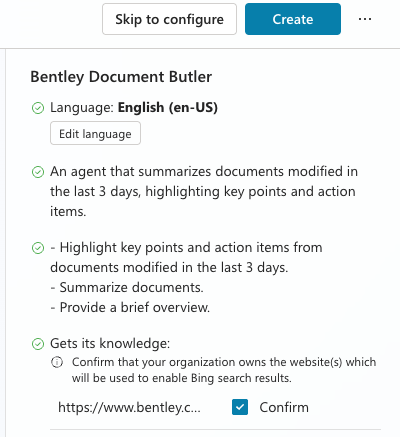
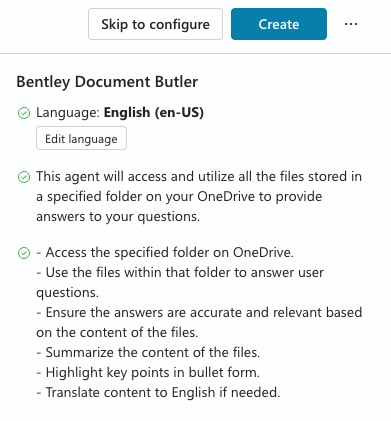
Updated answerkey and images
Updated answerkey and replaced images with better ones.

diff --git a/answerkey.md b/answerkey.md
@@ -13,13 +13,9 @@ Define/refine the task this agent needs to undertake
 
 ![Refine Copilot Agent's role](images/DefineTask.png)
 
-Optional - Choose whether to include Web results or not
+Not including public website as sources for now
 
 ![Add publicly accesible sites as source](images/IncludeWeb.png)
-
-List URLs to crawl, if you said "Yes" in the above.
-
-![List public sites](images/IncludeURL.png)
 
 Check the box to confirm adding the site and click create button (see right margin)
 
